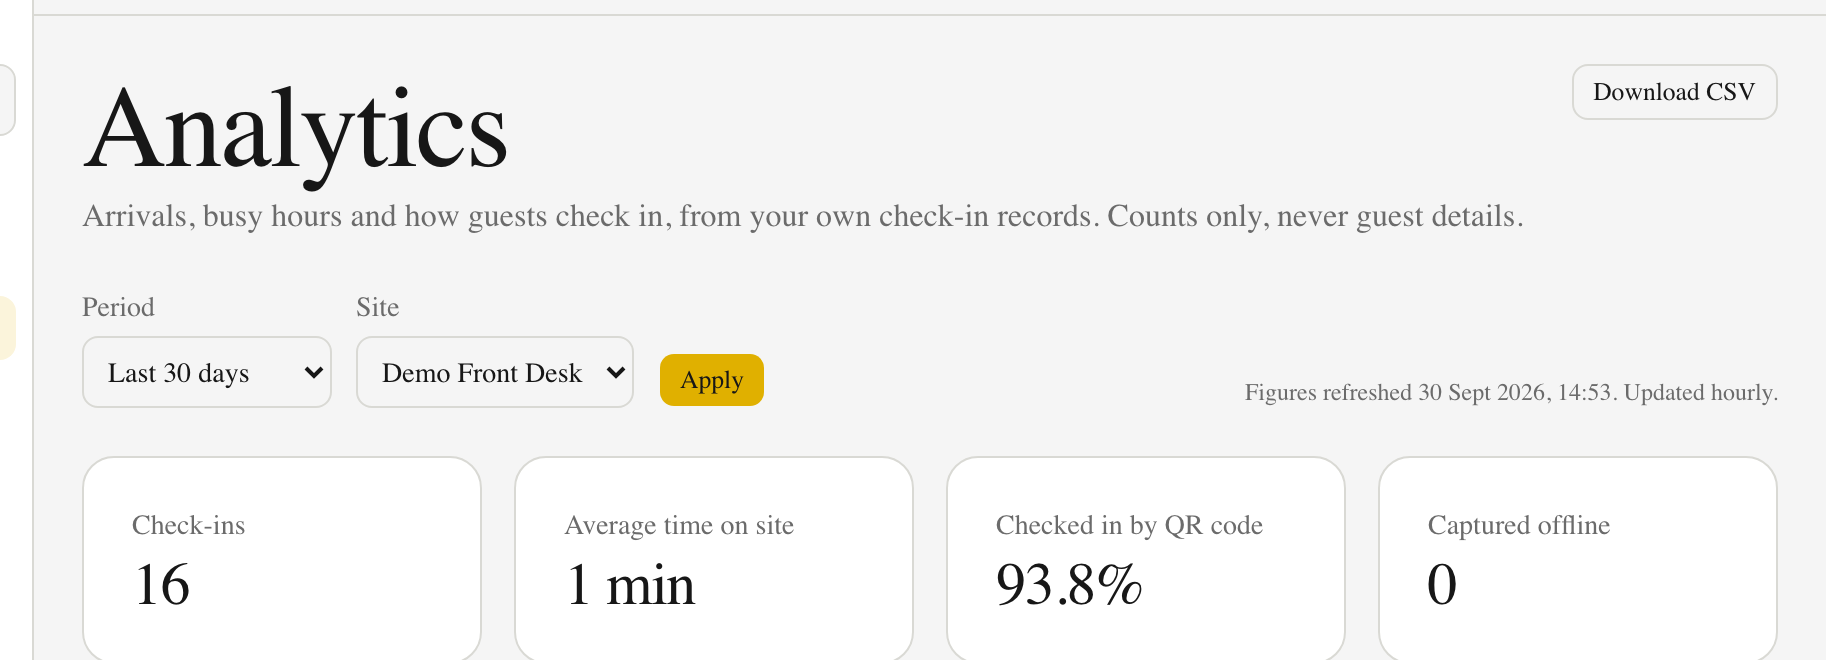
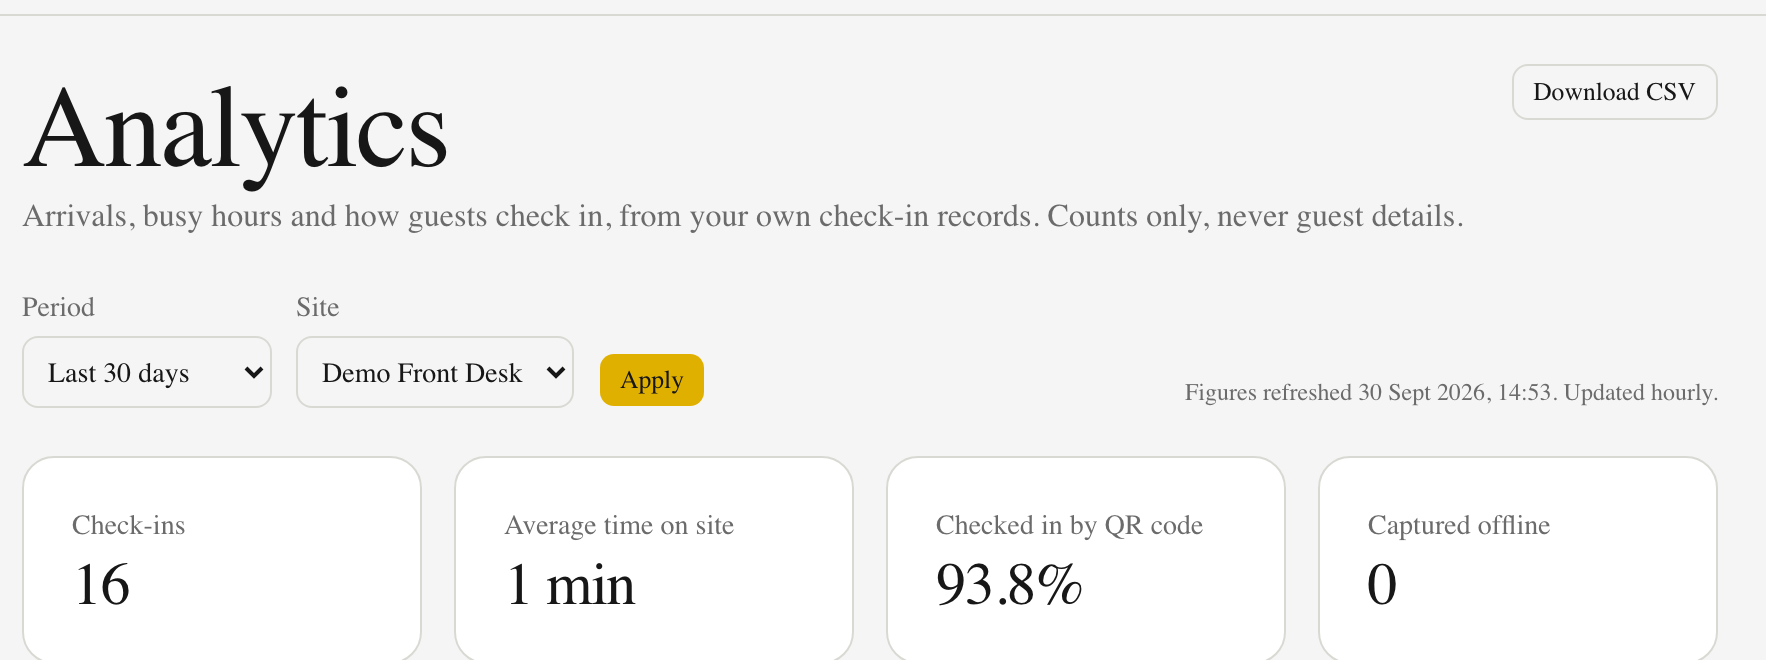
fix(website): audience cases as full-width rows with readable screenshots
Replaces the three-column cards (cropped, unreadable images) with
alternating image/text rows; screenshots shown whole at about 60% width.

diff --git a/website/src/app/(marketing)/platform/page.tsx b/website/src/app/(marketing)/platform/page.tsx
@@ -159,21 +159,28 @@ export default function PlatformPage() {
           </div>
 
           <h3 className="mt-16 font-heading text-xl font-medium text-foreground">{reportingCopy.audiencesTitle}</h3>
-          <div className="mt-6 grid min-w-0 gap-4 md:grid-cols-3">
-            {reportingCopy.audiences.map((card) => (
-              <div key={card.who} className={`flex min-w-0 flex-col overflow-hidden p-0! ${marketingCapabilityCard}`}>
-                <Image
-                  src={card.image.src}
-                  alt={card.image.alt}
-                  width={card.image.width}
-                  height={card.image.height}
-                  sizes="(max-width: 768px) 100vw, 33vw"
-                  className="h-56 w-full border-b border-border object-cover object-left-top sm:h-64 lg:h-[17.5rem]"
-                />
-                <div className="p-6">
+          <div className="mt-6 space-y-6">
+            {reportingCopy.audiences.map((card, index) => (
+              <div
+                key={card.who}
+                className={`grid min-w-0 overflow-hidden p-0! ${index % 2 === 1 ? "md:grid-cols-[2fr_3fr]" : "md:grid-cols-[3fr_2fr]"} ${marketingCapabilityCard}`}
+              >
+                <div
+                  className={`flex items-center border-b border-border bg-[color-mix(in_srgb,var(--color-cloud)_70%,var(--color-pure-white))] p-4 sm:p-6 md:border-b-0 ${index % 2 === 1 ? "md:order-2 md:border-l" : "md:border-r"}`}
+                >
+                  <Image
+                    src={card.image.src}
+                    alt={card.image.alt}
+                    width={card.image.width}
+                    height={card.image.height}
+                    sizes="(max-width: 768px) 100vw, 60vw"
+                    className="h-auto w-full rounded-lg border border-border bg-background"
+                  />
+                </div>
+                <div className="flex flex-col justify-center p-6 sm:p-8">
                   <p className="text-xs font-medium uppercase tracking-wide text-muted-foreground">{card.who}</p>
-                  <p className="mt-2 font-heading text-base font-medium text-foreground">{card.question}</p>
-                  <p className="mt-2 text-sm text-muted-foreground">{card.answer}</p>
+                  <p className="mt-3 font-heading text-xl font-medium text-foreground">{card.question}</p>
+                  <p className="mt-3 text-sm text-muted-foreground">{card.answer}</p>
                 </div>
               </div>
             ))}

diff --git a/website/src/lib/copy/reporting.ts b/website/src/lib/copy/reporting.ts
@@ -59,7 +59,7 @@ export const reportingCopy = {
       who: "Head office and lodge groups",
       image: {
         src: "/screenshots/analytics-site-filter.png",
-        width: 1826,
+        width: 1766,
         height: 660,
         alt: "Analytics filtered to one site, with the Download CSV button.",
       },
@@ -70,8 +70,8 @@ export const reportingCopy = {
       who: "Auditors and compliance officers",
       image: {
         src: "/screenshots/evidence-report.png",
-        width: 2336,
-        height: 640,
+        width: 1910,
+        height: 610,
         alt: "Evidence pack report header with visits in period, audited actions, people with access and an intact audit hash chain.",
       },
       question: "Who was on the property on the night of 14 March, and who viewed that record?",
